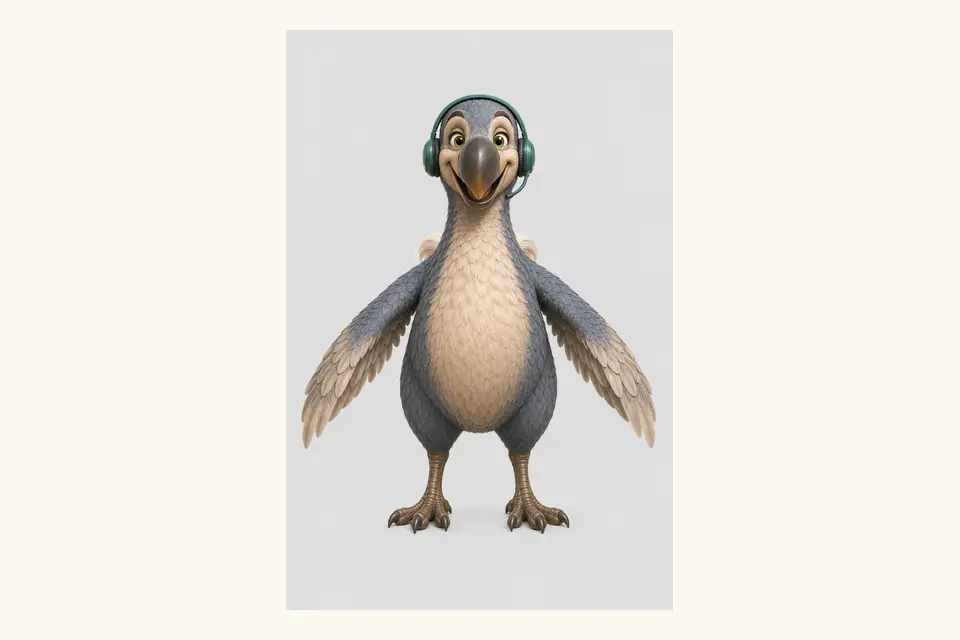
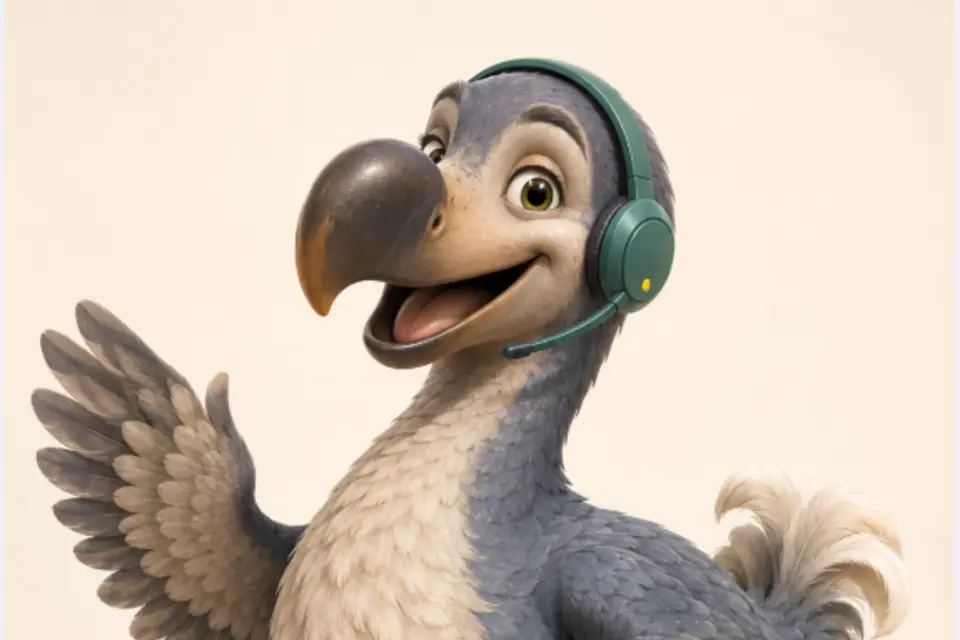
Polish Dodo live greeting stage

diff --git a/apps/mobile/lib/screens/map_dashboard_page.dart b/apps/mobile/lib/screens/map_dashboard_page.dart
@@ -1103,167 +1103,101 @@ class _DodoVisualStage extends StatelessWidget {
     final scene = linking
         ? dodoStageSceneForLinkingStep(visibleLinkingStep)
         : dodoStageSceneForMode(mode);
-    return Column(
-      crossAxisAlignment: CrossAxisAlignment.stretch,
+    return Stack(
+      fit: StackFit.expand,
       children: [
-        Expanded(
-          child: Stack(
-            fit: StackFit.expand,
-            children: [
-              const DecoratedBox(
-                decoration: BoxDecoration(
-                  gradient: RadialGradient(
-                    colors: [
-                      Color(0xFFFFFFFF),
-                      Color(0xFFDFF3E8),
-                      Color(0xFFCFE4DA),
-                    ],
-                    stops: [0.08, 0.48, 1],
-                  ),
-                ),
-              ),
-              Positioned.fill(
-                child: AnimatedSwitcher(
-                  duration: reduceMotion
-                      ? Duration.zero
-                      : const Duration(milliseconds: 450),
-                  switchInCurve: Curves.easeOutCubic,
-                  switchOutCurve: Curves.easeInCubic,
-                  child: GuardianDodoStageImage(
-                    key: ValueKey(scene.action),
-                    action: scene.action,
-                  ),
-                ),
-              ),
-              Positioned(
-                left: 15,
-                top: 14,
-                child: Container(
-                  padding:
-                      const EdgeInsets.symmetric(horizontal: 10, vertical: 6),
-                  decoration: BoxDecoration(
-                    color: Colors.white.withValues(alpha: 0.92),
-                    borderRadius: BorderRadius.circular(999),
-                    border: Border.all(
-                      color: GuardianColors.safe.withValues(alpha: 0.18),
-                    ),
-                  ),
-                  child: Row(
-                    mainAxisSize: MainAxisSize.min,
-                    children: [
-                      Container(
-                        width: 6,
-                        height: 6,
-                        decoration: const BoxDecoration(
-                          color: GuardianColors.safe,
-                          shape: BoxShape.circle,
-                        ),
-                      ),
-                      const SizedBox(width: 6),
-                      Text(
-                        linking
-                            ? 'STEP ${visibleLinkingStep + 1} OF ${linkingDodoStageScenes.length}'
-                            : mode == DodoStageMode.active
-                                ? 'LIVE'
-                                : 'LISTENING',
-                        style: const TextStyle(
-                          color: GuardianColors.forest,
-                          fontSize: 8,
-                          fontWeight: FontWeight.w900,
-                          letterSpacing: 1,
-                        ),
-                      ),
-                    ],
-                  ),
-                ),
-              ),
-              if (linking)
-                Positioned(
-                  right: 16,
-                  top: 20,
-                  child: Row(
-                    children: [
-                      for (var i = 0;
-                          i < linkingDodoStageScenes.length;
-                          i++) ...[
-                        AnimatedContainer(
-                          duration: reduceMotion
-                              ? Duration.zero
-                              : const Duration(milliseconds: 300),
-                          width: i == visibleLinkingStep ? 18 : 6,
-                          height: 6,
-                          decoration: BoxDecoration(
-                            color: i <= visibleLinkingStep
-                                ? GuardianColors.safe
-                                : GuardianColors.safe.withValues(alpha: 0.2),
-                            borderRadius: BorderRadius.circular(999),
-                          ),
-                        ),
-                        if (i < linkingDodoStageScenes.length - 1)
-                          const SizedBox(width: 5),
-                      ],
-                    ],
-                  ),
-                ),
-            ],
+        const DecoratedBox(
+          decoration: BoxDecoration(
+            gradient: RadialGradient(
+              colors: [
+                Color(0xFFFFFFFF),
+                Color(0xFFDFF3E8),
+                Color(0xFFCFE4DA),
+              ],
+              stops: [0.08, 0.48, 1],
+            ),
           ),
         ),
-        Container(
-          constraints: const BoxConstraints(minHeight: 58),
-          padding: const EdgeInsets.symmetric(horizontal: 16, vertical: 10),
-          color: GuardianColors.forest.withValues(alpha: 0.97),
-          child: Row(
-            children: [
-              Container(
-                width: 8,
-                height: 8,
-                decoration: const BoxDecoration(
-                  color: Color(0xFF57E69A),
-                  shape: BoxShape.circle,
-                ),
-              ),
-              const SizedBox(width: 11),
-              Expanded(
-                child: Column(
-                  mainAxisAlignment: MainAxisAlignment.center,
-                  crossAxisAlignment: CrossAxisAlignment.start,
-                  children: [
-                    const Text(
-                      'RIGHT NOW',
-                      style: TextStyle(
-                        color: Color(0xFFA8C8B9),
-                        fontSize: 7,
-                        fontWeight: FontWeight.w800,
-                        letterSpacing: 1,
-                      ),
-                    ),
-                    const SizedBox(height: 2),
-                    Text(
-                      scene.title,
-                      maxLines: 1,
-                      overflow: TextOverflow.ellipsis,
-                      style: const TextStyle(
-                        color: Colors.white,
-                        fontSize: 11,
-                        fontWeight: FontWeight.w800,
-                      ),
-                    ),
-                    const SizedBox(height: 2),
-                    Text(
-                      scene.detail,
-                      maxLines: 1,
-                      overflow: TextOverflow.ellipsis,
-                      style: const TextStyle(
-                        color: Color(0xFFB8D3C6),
-                        fontSize: 8,
-                      ),
-                    ),
-                  ],
-                ),
-              ),
-            ],
+        Positioned.fill(
+          child: AnimatedSwitcher(
+            duration: reduceMotion
+                ? Duration.zero
+                : const Duration(milliseconds: 450),
+            switchInCurve: Curves.easeOutCubic,
+            switchOutCurve: Curves.easeInCubic,
+            child: GuardianDodoStageImage(
+              key: ValueKey(scene.action),
+              action: scene.action,
+            ),
           ),
         ),
+        Positioned(
+          left: 15,
+          top: 14,
+          child: Container(
+            padding: const EdgeInsets.symmetric(horizontal: 10, vertical: 6),
+            decoration: BoxDecoration(
+              color: Colors.white.withValues(alpha: 0.92),
+              borderRadius: BorderRadius.circular(999),
+              border: Border.all(
+                color: GuardianColors.safe.withValues(alpha: 0.18),
+              ),
+            ),
+            child: Row(
+              mainAxisSize: MainAxisSize.min,
+              children: [
+                Container(
+                  width: 6,
+                  height: 6,
+                  decoration: const BoxDecoration(
+                    color: GuardianColors.safe,
+                    shape: BoxShape.circle,
+                  ),
+                ),
+                const SizedBox(width: 6),
+                Text(
+                  linking
+                      ? 'STEP ${visibleLinkingStep + 1}  ·  ${scene.action.shortLabel}'
+                      : mode == DodoStageMode.active
+                          ? 'LIVE'
+                          : 'LISTENING',
+                  style: const TextStyle(
+                    color: GuardianColors.forest,
+                    fontSize: 8,
+                    fontWeight: FontWeight.w900,
+                    letterSpacing: 1,
+                  ),
+                ),
+              ],
+            ),
+          ),
+        ),
+        if (linking)
+          Positioned(
+            right: 16,
+            top: 20,
+            child: Row(
+              children: [
+                for (var i = 0; i < linkingDodoStageScenes.length; i++) ...[
+                  AnimatedContainer(
+                    duration: reduceMotion
+                        ? Duration.zero
+                        : const Duration(milliseconds: 300),
+                    width: i == visibleLinkingStep ? 18 : 6,
+                    height: 6,
+                    decoration: BoxDecoration(
+                      color: i <= visibleLinkingStep
+                          ? GuardianColors.safe
+                          : GuardianColors.safe.withValues(alpha: 0.2),
+                      borderRadius: BorderRadius.circular(999),
+                    ),
+                  ),
+                  if (i < linkingDodoStageScenes.length - 1)
+                    const SizedBox(width: 5),
+                ],
+              ],
+            ),
+          ),
       ],
     );
   }

diff --git a/apps/mobile/lib/widgets/dashboard/dodo_stage.dart b/apps/mobile/lib/widgets/dashboard/dodo_stage.dart
@@ -57,6 +57,21 @@ extension DodoStageActionPresentation on DodoStageAction {
         DodoStageAction.aiCheck =>
           'Guardian Dodo is checking the pendant update with AI',
       };
+
+  BoxFit get imageFit =>
+      this == DodoStageAction.idle ? BoxFit.cover : BoxFit.contain;
+
+  Alignment get imageAlignment => this == DodoStageAction.idle
+      ? const Alignment(0, -0.55)
+      : Alignment.center;
+
+  String get shortLabel => switch (this) {
+        DodoStageAction.idle => 'LIVE',
+        DodoStageAction.pendantListen => 'PENDANT',
+        DodoStageAction.networkSearch => 'NETWORK',
+        DodoStageAction.locationSearch => 'LOCATION',
+        DodoStageAction.aiCheck => 'GUARDIAN AI',
+      };
 }
 
 const _liveScene = DodoStageScene(
@@ -120,8 +135,8 @@ class GuardianDodoStageImage extends StatelessWidget {
       label: action.semanticLabel,
       child: Image.asset(
         action.assetPath,
-        fit: BoxFit.contain,
-        alignment: Alignment.center,
+        fit: action.imageFit,
+        alignment: action.imageAlignment,
         excludeFromSemantics: true,
         filterQuality: FilterQuality.high,
         errorBuilder: (context, error, stackTrace) => const Center(

diff --git a/apps/mobile/test/dodo_stage_test.dart b/apps/mobile/test/dodo_stage_test.dart
@@ -1,3 +1,4 @@
+import 'package:flutter/material.dart';
 import 'package:flutter_test/flutter_test.dart';
 import 'package:guardian/widgets/dashboard/dodo_stage.dart';
 
@@ -37,6 +38,14 @@ void main() {
       assets.every((asset) => asset.startsWith('assets/dodo/stages/')),
       isTrue,
     );
+  });
+
+  test('live artwork greets while process artwork remains fully visible', () {
+    expect(DodoStageAction.idle.imageFit, BoxFit.cover);
+    expect(DodoStageAction.idle.imageAlignment.y, lessThan(0));
+    expect(DodoStageAction.networkSearch.imageFit, BoxFit.contain);
+    expect(DodoStageAction.aiCheck.imageAlignment, Alignment.center);
+    expect(DodoStageAction.aiCheck.shortLabel, 'GUARDIAN AI');
   });
 
   test('linking step selection is safely clamped', () {
